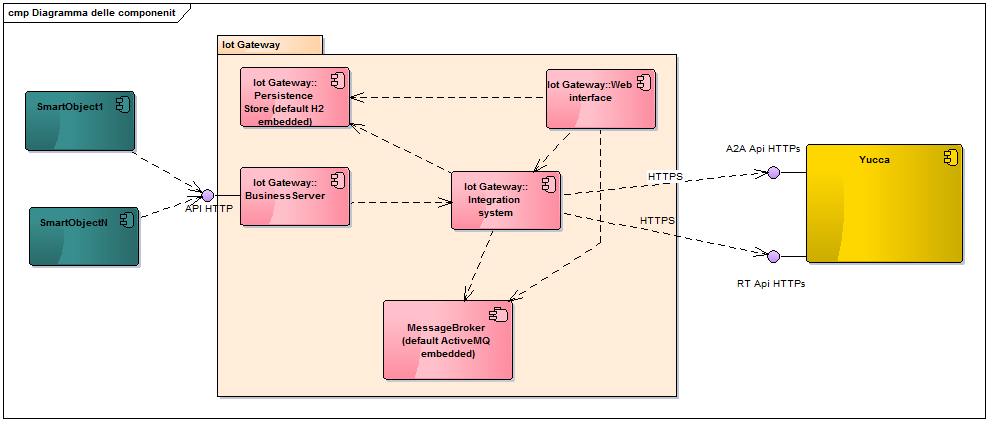
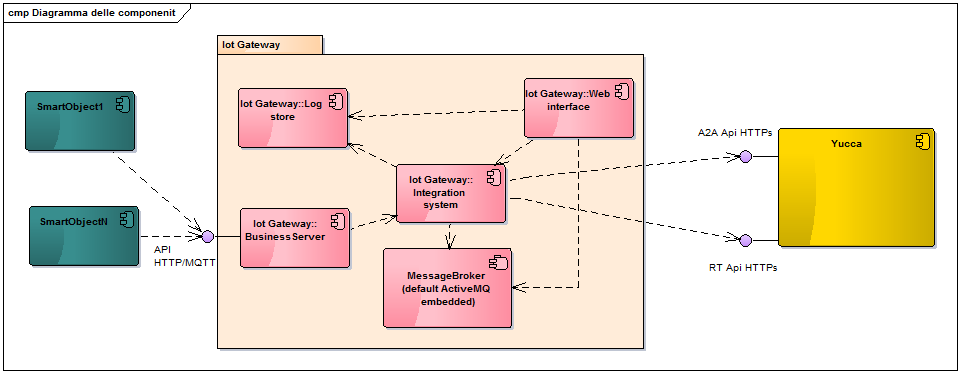
Documentation

diff --git a/README.md b/README.md
@@ -1,11 +1,8 @@
-WORK IN PROGRESS
-=============
-
-yucca-light (Yucca portable gateway )
+Yucca-Light (Yucca portable gateway )
 =============
 
 
-Yucca-light allows you to easily integrate intelligent objects with a platform yucca (as www.smartdatanet.it ) even when you have network discontinuity
+Yucca-Light allows you to easily integrate intelligent objects with a platform yucca (as www.smartdatanet.it ) even when you have network discontinuity
 
 
 ![yucca-light architecture](src/site/resources/images/gwiot_arch.png)
@@ -19,10 +16,21 @@ First version of Yucca-Light
 * Run with embedded Tomcat or in external Tomcat
 * Run with embedded or external ActiveMQ
 
+Main use case
+----------------------------
+The main use case of Yucca-Light is to implement guaranteed delivery pattern between smartobject and a remote Yucca platform introducing a store in local environment.
+In simple words:
+ 1. Smartobjects send events to an instance of Yucca-Light running in a local area network.
+ 2. Yucca-Light try to send events immediately to the remote Yucca (through Realitme API)
+ 3. If remote Yucca is not available, Yucca-Light persist events in a local ActiveMQ broker.
+ 4. In a schedulated way Yucca-Light try to sends the undelivered events to remote Yucca (through A2A Api)    
+![Main use case](src/site/resources/images/gwiot_main_usecase.png)
+
+
 Getting started
 ---------------
 
-To use yucca-light you must follow these steps:
+To use Yucca-Light you must follow these steps:
 
 1. Choose if you want costumize & build code or just download
 2. Choose if you want run as standalone (using tomcat embedded) or install on tomcat 8
@@ -30,7 +38,7 @@ To use yucca-light you must follow these steps:
 4. Configure properties (see [Properties]( PROPERTIES.md))
 5. Run from shell or deploy on tomcat 8
 
-yucca-light is a [Spring boot application](http://projects.spring.io/spring-boot/), you can code or use all spring boot capabilities.
+Yucca-Light is a [Spring boot application](http://projects.spring.io/spring-boot/), you can code or use all spring boot capabilities.
 
 ### Build from source
 Software required: **Maven 3.2+**, **jdk 1.7.x**
@@ -55,9 +63,9 @@ Software required: **Maven 3.2+**, **jdk 1.7.x**
 ### Configure (how to enable autoconfiguration from Yucca Platform)
 All configurations are set in a file outside the war  (see [Properties]( PROPERTIES.md))
 
-At the startup, Yucca-light automatically download all the stream configurations related to the tenant configured, from the platform yucca.
+At the startup, Yucca-Light automatically download all the stream configurations related to the tenant configured, from the platform yucca.
 
-Only streams persisted are retreives from Yucca. Streams without associated dataset are not managed from yucca-light 
+Only streams persisted are retreives from Yucca. Streams without associated dataset are not managed from Yucca-Light
 
 ### Run standalone (using Tomcat embedded)
 1. Check if the environment variable **JAVA_HOME** is properly set with the **jdk 1.7.x** 
@@ -66,10 +74,10 @@ Only streams persisted are retreives from Yucca. Streams without associated data
 4. Open in a browser the url http://localhost:8080/yucca-light/console and login with the configured credentials. 
 
 #### Screenshots
-**yucca-light starting...**
+**Yucca-Light starting...**
 ![run standalone start](src/site/resources/images/gwiot_run_standalone_start.png)
 
-**yucca-light ready...**
+**Yucca-Light ready...**
 ![run standalone end](src/site/resources/images/gwiot_run_standalone_end.png)
 
 **web console...**
@@ -90,7 +98,7 @@ To  lighten the war is possible to remove the folder **lib-provided** under **yu
 
 ### Run with embedded or external ActiveMQ
 
-In order to run yucca-light using an external ActiveMQ you must configure these properties in your properties file
+In order to run Yucca-Light using an external ActiveMQ you must configure these properties in your properties file
 ```
 spring.activemq.broker-url
 spring.activemq.user
@@ -103,41 +111,43 @@ spring.activemq.broker-url=tcp://localhost:61616
 spring.activemq.user=system
 spring.activemq.password=manager
 ``` 
+Yucca-Light detect external broker url and doesn't start internal ActiveMQ.
 
-Yucca-light detect external broker url and doesn't start internal ActiveMQ.
+Note: in order to use MQTT protocol on Yucca-Light you must configure MQTT in external ActivMQ.
 
-
-### Run with embedded or external ActiveMQ
-
-In order to run yucca-light using an external ActiveMQ you must configure these properties in your properties file
-```
-spring.activemq.broker-url
-spring.activemq.user
-spring.activemq.password
-``` 
-
-for example default configuration for ActiveMQ works with:
-```
-spring.activemq.broker-url=tcp://localhost:61616
-spring.activemq.user=system
-spring.activemq.password=manager
-``` 
-
-Yucca-light detect external broker url and doesn't start internal ActiveMQ.
 
 How it works
 ---------------
 
 ### Web console
-TBD
+Yucca-Light has several web consoles.
 
+**Main web console is available to** [http://localhost:8080/yucca-light/console](http://localhost:8080/yucca-light/console) 
 
+In this console you can:
+1. view configurated streams from remote Yucca
+2. view how many events that there are and theirs state
+3. view events details with list of attempts to send
+4. resend to Yucca a single event using realtime API o A2A API
+  
+**H2 console is available to** [http://localhost:8080/yucca-light/h2](http://localhost:8080/yucca-light/h2)
+
+This console is standard H2 Console available using  org.h2.server.web.WebServlet.
+
+Note that H2 is used only to persist stream configurations and attempts to send, events are persisted in local ActiveMQ. 
+
+**Metrics console is available to**[http://localhost:8080/yucca-light/metrics](http://localhost:8080/yucca-light/metrics)
+
+This is metrics services from [Spring Boot Actuator](http://docs.spring.io/spring-boot/docs/current/reference/html/production-ready-metrics.html).
 
 ### Sending messages in HTTP or MQTT
-TBD
+Yucca-Light exposes same realtime endpoints and same validation logic of Yucca platform.
+Yucca A2A endpoint (for historical data) is not implemented.
 
-### What happens when there is a network error?
-TBD
+You can send event in http to endpoint (localhost:8080/yucca-light/api/input/smartlab) or you can connect to MQTT endpoint (defaul 127.0.0.1:1883) and publish evento to input/<tenant> topic. 
+
+As original Yucca, Yucca-Light send error messages on mqtt topic (output/<tenant>/errors) or as HTTP output (for http calls) with the same format (see [Developer Center Smartdatanet](http://developer.smartdatanet.it))
+
 
 
 
